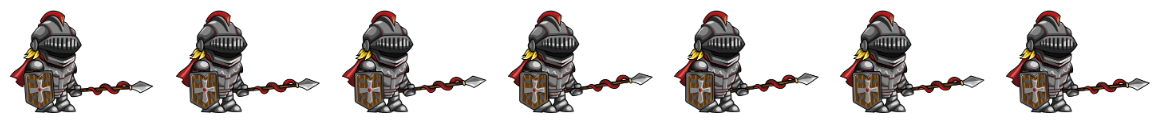
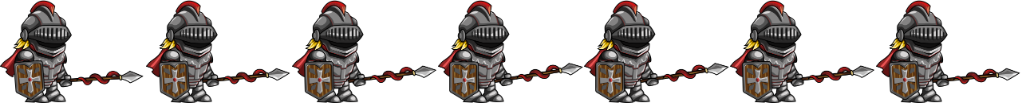
Animations idle, walk et attack du player

diff --git a/src/components/Player.vue b/src/components/Player.vue
@@ -1,7 +1,7 @@
 <template>
   <div class='player-component' :style='{ marginLeft: `${params.x}px` }'>
     <div class='player' :class='[params.direction, params.state]'></div>
-    <life-bar class='life-bar' :health='params.health'></life-bar>
+    <!-- <life-bar class='life-bar' :health='params.health'></life-bar> -->
   </div>
 </template>
 
@@ -24,10 +24,6 @@ export default {
   // background-color: green;
 }
 
-.player {
-
-}
-
 .left {
   transform: scaleX(-1);
 }
@@ -38,29 +34,42 @@ export default {
 
 .idle {
   animation: idle .65s steps(7) infinite;
-  background: url('../assets/player-idle.png') -10px -10px;
+  background: url('../assets/player-idle.png');
   height: 103px;
   width: 146px;
 }
 
 @keyframes idle {
   100% {
-    background-position: -1162px;
+    background-position: -1022px;
   }
 }
 
 .walk {
   animation: walk .65s steps(7) infinite;
-  background: url('../assets/player-walk.png') -10px -10px;
+  background: url('../assets/player-walk.png');
   height: 106px;
   width: 148px;
 }
+
 @keyframes walk {
   100% {
-    background-position: -1176px;
+    background-position: -1036px;
   }
 }
 
+.attack {
+  animation: attack .65s steps(8) infinite;
+  background: url('../assets/player-attack.png');
+  height: 110px;
+  width: 164px;
+}
+
+@keyframes attack {
+  100% {
+    background-position: -1312px;
+  }
+}
 
 /*
 .player-component {

diff --git a/src/App.vue b/src/App.vue
@@ -11,7 +11,7 @@
 
     <div id='game'>
       <div class='moon'></div>
-      <div v-for='i in 10' class='star' :class="`twinkle-star-${i}`"></div>
+      <div v-for='i in 10' class='star' :class='`twinkle-star-${i}`'></div>
       <div class='grass'></div>
       <div class='street'></div>
 
@@ -57,12 +57,13 @@ export default {
     action (e) {
       switch (e.code) {
         case 'ArrowLeft':
-          this.$socket.emit('moveLeft', this.id)
+          this.$socket.emit('left', this.id)
           break
         case 'ArrowRight':
-          this.$socket.emit('moveRight', this.id)
+          this.$socket.emit('right', this.id)
           break
         case 'Space':
+          this.$socket.emit('attack', this.id)
           break
       }
     },
